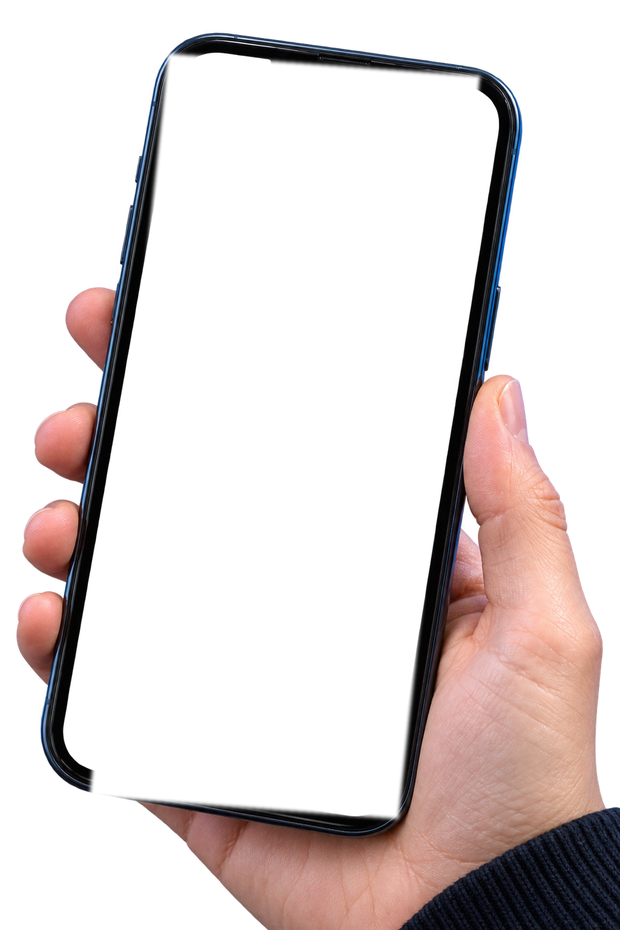
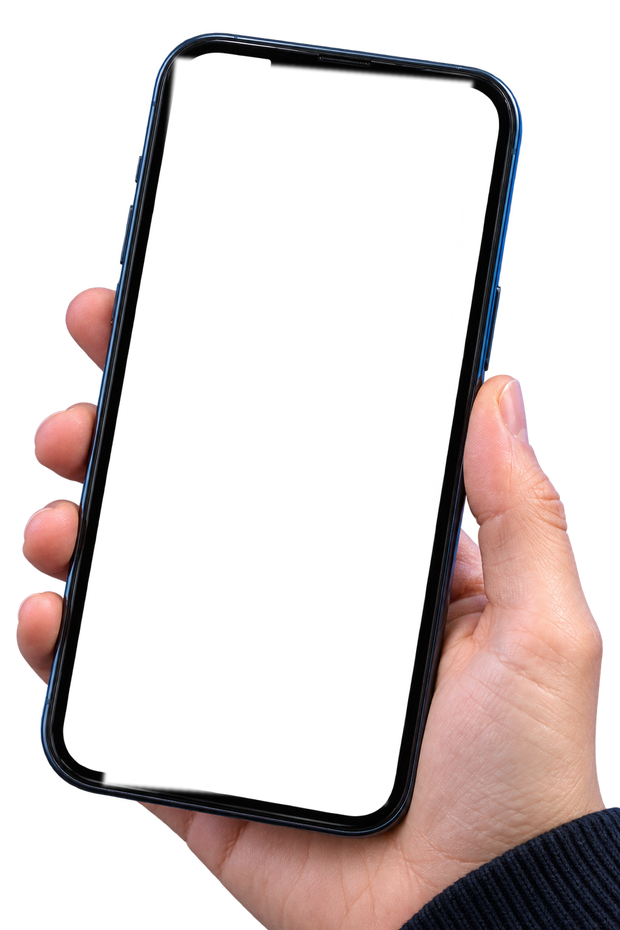
герой: фото не виходить за скло, телефон опущено нижче

diff --git a/assets/style.css b/assets/style.css
@@ -1104,7 +1104,7 @@ section > .container > p.price-note, .price-note { max-width: none; text-align: 
     /* Телефон росте знизу й виходить за межу секції — її обріже overflow
        героя. Так він може бути великим, не розсуваючи блок. */
     top: auto;
-    bottom: -52px;
+    bottom: -86px;
     width: clamp(300px, min(34vw, 58vh), 540px);
     transform: none;
     pointer-events: none;
@@ -1125,7 +1125,7 @@ section > .container > p.price-note, .price-note { max-width: none; text-align: 
     position: absolute;
     inset: 0;
     z-index: 1;
-    clip-path: polygon(27.15% 5.73%, 77.34% 8.14%, 64.16% 88.02%, 14.45% 85.61%);
+    clip-path: polygon(28.22% 6.12%, 76.17% 8.72%, 62.11% 86.46%, 16.60% 84.38%);
     background: #0A0D12;
   }
 
@@ -1185,7 +1185,7 @@ section > .container > p.price-note, .price-note { max-width: none; text-align: 
 /* На низьких вікнах телефон не ховаємо, а зменшуємо: саме там більшість
    відвідувачів із ноутбуками, і права частина героя не має бути порожньою. */
 @media (min-width: 1000px) and (max-height: 700px) {
-  .hero-phone { width: clamp(260px, 54vh, 460px); bottom: -28px; }
+  .hero-phone { width: clamp(260px, 54vh, 460px); bottom: -64px; }
 }
 
 @media (max-height: 420px) {

diff --git a/sw.js b/sw.js
@@ -4,7 +4,7 @@
 // тягнемо свіжу версію у фоні (stale-while-revalidate), тож оновлення
 // доїжджає до людини не пізніше наступного відкриття сторінки.
 
-const CACHE = 'see-you-v8';
+const CACHE = 'see-you-v9';
 const ASSETS = ['/', '/icon.svg', '/manifest.webmanifest'];
 
 self.addEventListener('install', (event) => {
